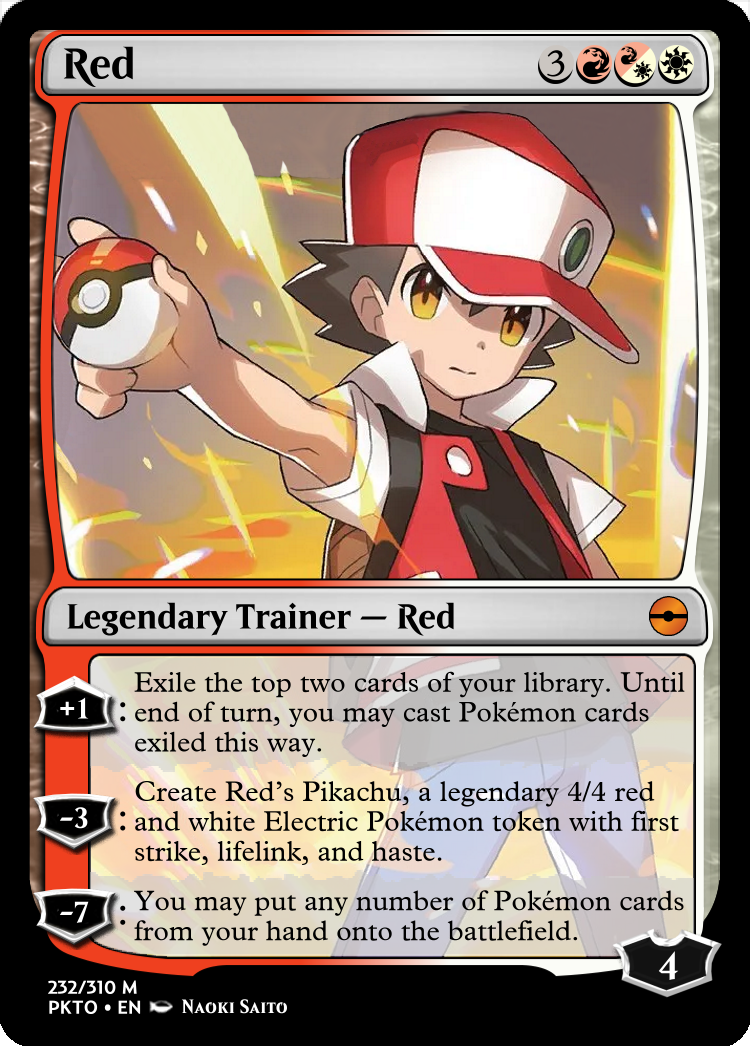
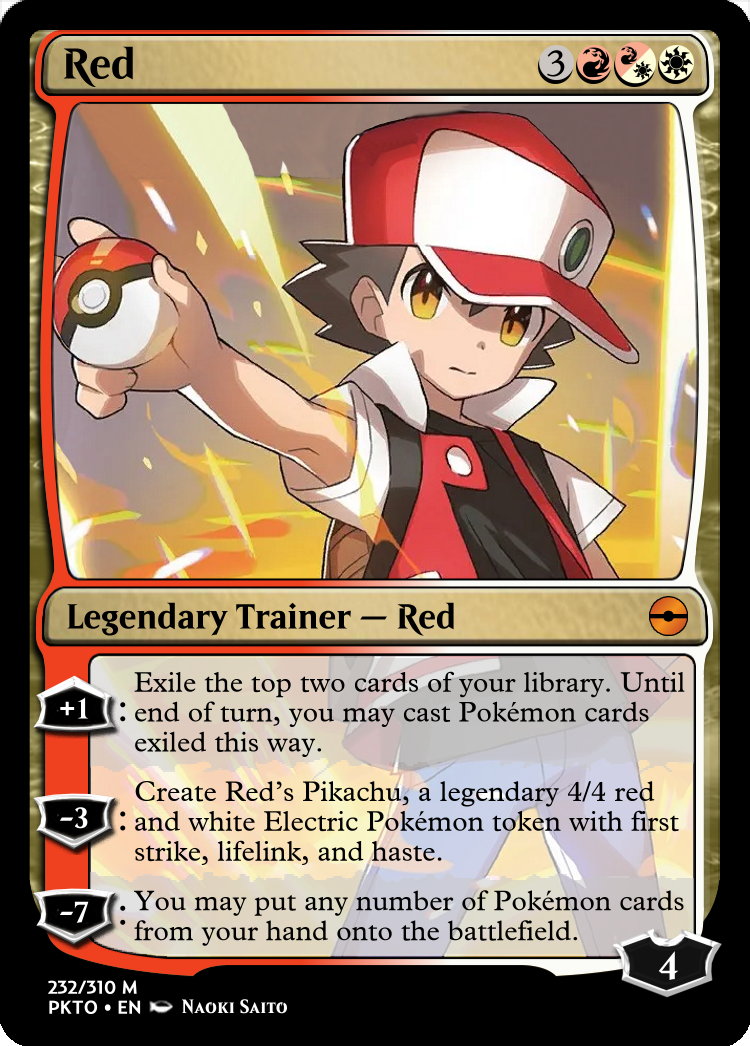
Functional changes (#151)
* Hyper Beam no stun

* Green lands matter

* evolved copies FAQ

* Trainer frame colors

* Update README.md

removed kadabra DFC question

---------

Changed region(s): [[0.0307, 0.0306, 0.9813, 0.8872], [0.0307, 0.673, 0.0613, 0.826]]

diff --git a/README.md b/README.md
@@ -40,10 +40,6 @@ A Pokémon is considered evolved if it is the back side of a card with an evolve
 
 **A**: Yes, a Weepinbell that uses that ability will still get +1/+1. In MTG, stating a creature's name is the same as saying "this creature." We chose to use Pokémon names more frequently for flavor points.
 
-**Q: The DFC Kadabra has an ability that triggers when it enters the battlefield. That can't happen, so why is it there?**
-
-**A**: We want to be consistent with the DFC cards having the same abilities on the front and back sides. This also opens up potential design space for future generations if we want to have an effect that has cards enter already evolved.
-
 **Q: Why isn't [insert favorite Pokémon here] the color I think it should be? Your colors are bad and you should feel bad.**
 
 **A**: To make a balanced cube, we need to have roughly equal representation for each color. Gen 1 has a high concentration of poison and water types. Fire, rock, ground, and electric could all be red. Designing the cube requires us to take some poetic license regarding what color a Pokémon ends up being, and the end result may be different than what any Pokémon would have been in a vaccuum. 
@@ -59,6 +55,10 @@ A Pokémon is considered evolved if it is the back side of a card with an evolve
 **Q: Beedrill and Ditto can make copies of evolved Pokémon. Do those copies get the abilities from the cards under the evolved Pokémon?**
 
 **A**: Yes, abilities of all cards in a merged permanent are copiable characteristics. For example, a copy of Beedrill with a weedle under it will have deathtouch.
+
+**Q: Are copies of evolved Pokémon considered evolved?
+
+**A**: No, being a merged permanent (evolved) is not itself a copiable characteristic. Copies are not evolved and have evolved 0 times.
 
 **Q: What if Ditto copies a Pokémon with an Evolve ability? Will it flip to the other side?**
 
